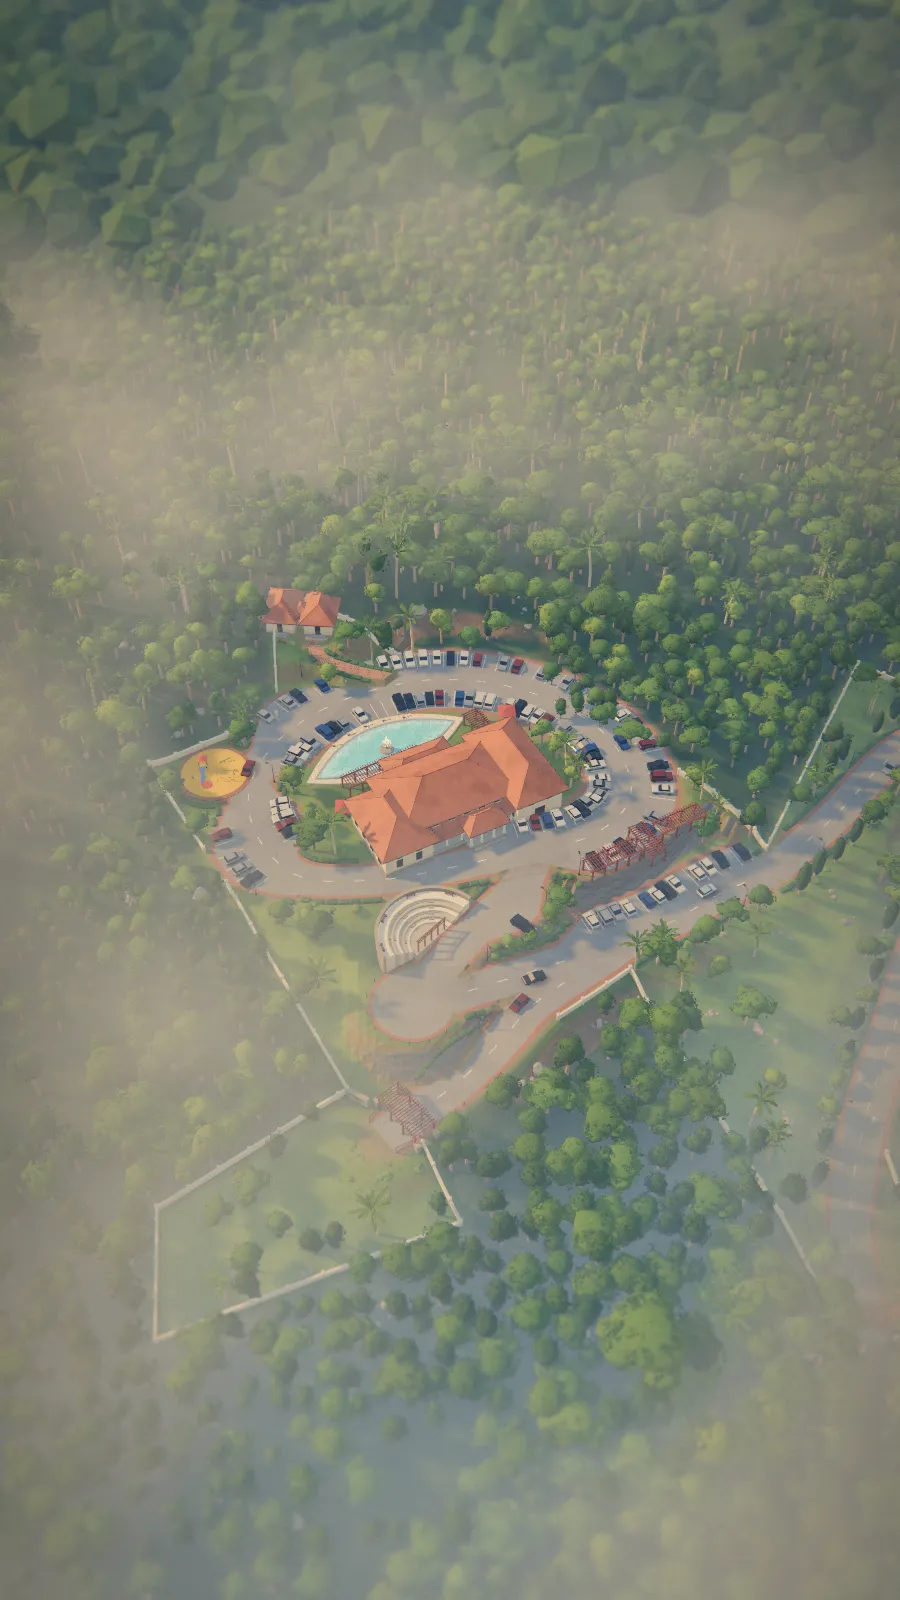
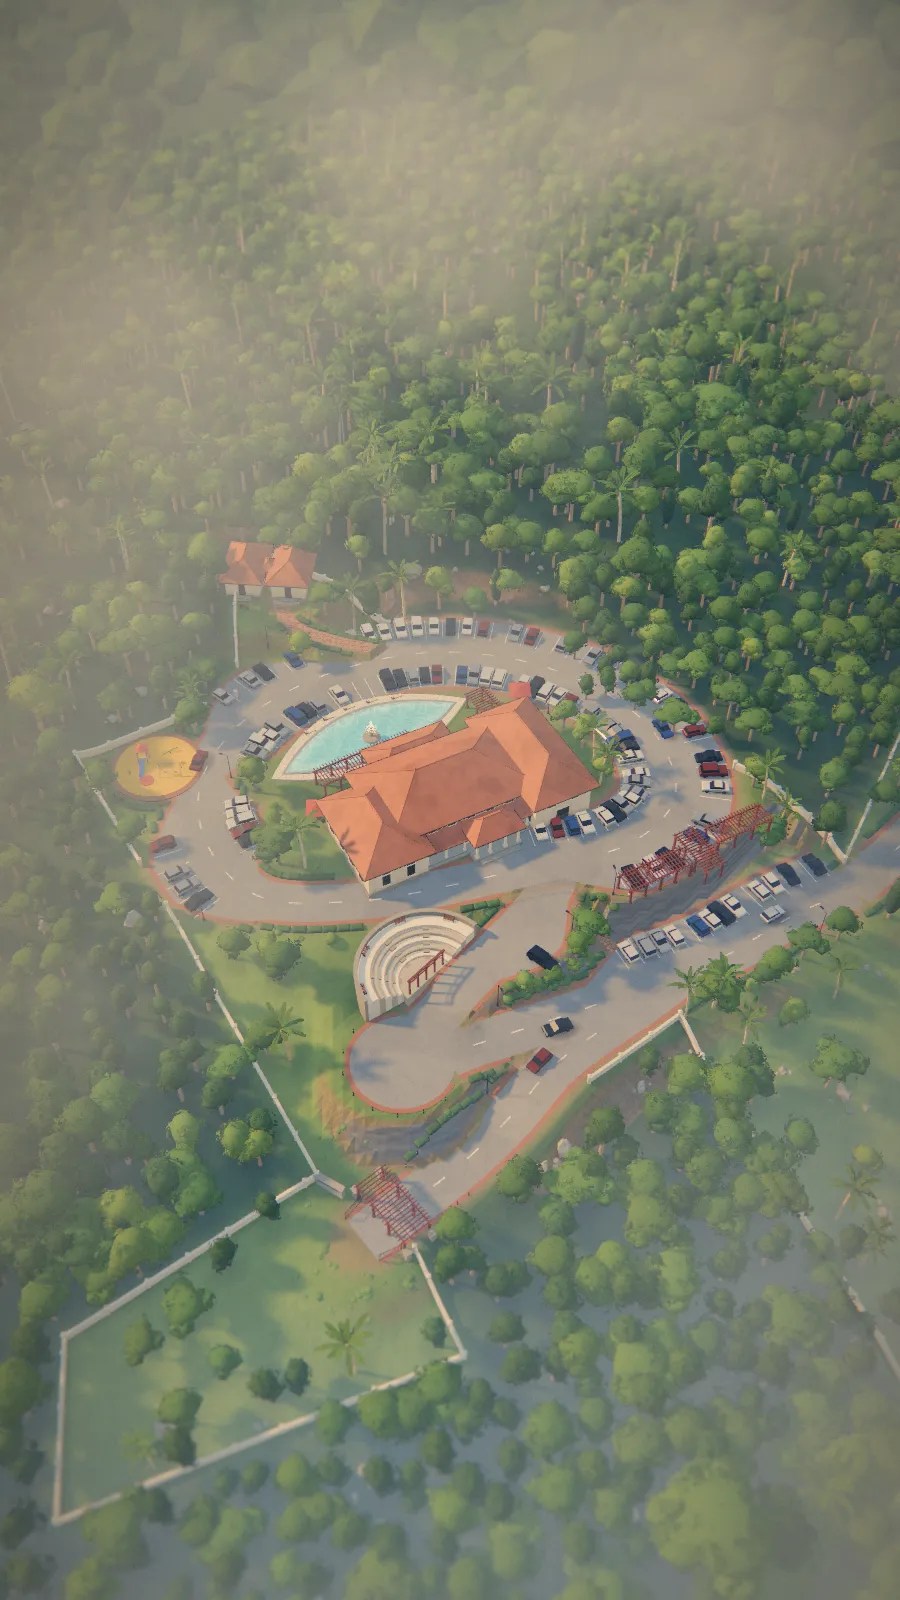
Zoom desktop views 10% closer, fix phone nav and fullscreen error, add test log
- config.js: desktop / big-screen presets (landscape, wider than 760 px) sit
  1/1.1 of their authored distance from their targets (DESKTOP_ZOOM, closer());
  phone and portrait presets unchanged. controls.js shares isNarrowView().
- popups.js: label fade distances scale with the zoom, so each view shows the
  same labels as before.
- hero.css: on phones <= 420 px the menu button was pushed off the right edge;
  logos, "Enquire Now" and the button now fit; below 360 px the CTA is hidden.
- ui.js: a refused fullscreen request no longer throws an uncaught error.
- Posters re-rendered for the new opening view.
- docs/TESTING.md: full index-page test run, results and open items.

diff --git a/src/hero/config.js b/src/hero/config.js
@@ -57,6 +57,16 @@ const requested = new URLSearchParams(location.search).get('look');
 export const LOOK_NAME = LOOKS[requested] ? requested : DEFAULT_LOOK;
 const LOOK = LOOKS[LOOK_NAME];
 
+// Desktop and other big (landscape, wider than 760 px) screens show the model this much larger than the authored
+// camera positions: each desktop preset sits 1 / DESKTOP_ZOOM of its distance from its target. Phones and portrait
+// screens use the presets' `mobile` positions, which are not changed.
+export const DESKTOP_ZOOM = 1.1;
+/** Same test the camera rig uses to pick the `mobile` presets. */
+export const isNarrowView = () => innerWidth <= 760 || innerHeight > innerWidth * 1.1;
+function closer({ target, position, ...rest }) {
+  return { target, position: position.map((v, i) => +(target[i] + (v - target[i]) / DESKTOP_ZOOM).toFixed(2)), ...rest };
+}
+
 export const CONFIG = {
   // Core model + extras (forest, then furniture and rocks). The paths live in prefetch.js, which starts the downloads
   // before this file is loaded.
@@ -74,7 +84,7 @@ export const CONFIG = {
   camera: {
     fov: 35, near: 1, far: 3000,
     target: [-27.3, 8, -21.75], // the Convention Centre, kept at the exact centre of the screen
-    position: [-47, 165, 145],  // from the south, ~45° down — like the reference aerial
+    position: closer({ target: [-27.3, 8, -21.75], position: [-47, 165, 145] }).position, // from the south, ~45° down — the aerial preset
     viewShift: 0,               // fraction of the width to shift the frame right (desktop only); 0 = centred
   },
 
@@ -93,10 +103,11 @@ export const CONFIG = {
   },
 
   // Camera presets: [target], [position]. `mobile` overrides apply to portrait/narrow screens.
+  // The desktop positions below are brought DESKTOP_ZOOM times closer to their targets (see `closer`).
   presets: {
-    aerial: { target: [-27.3, 8, -21.75], position: [-47, 165, 145], mobile: { target: [-27.3, 8, -21.75], position: [-33.9, 166.4, 120.8] } },
-    'main-building': { target: [-28, 8, -22], position: [8, 46, 32], mobile: { target: [-28, 8, -10], position: [-5.6, 61.6, 46] } },
-    recreation: { target: [-52, 7, -34], position: [-62, 38, 22], mobile: { target: [-52, 7, -20], position: [-56.8, 57.4, 40] } },
+    aerial: closer({ target: [-27.3, 8, -21.75], position: [-47, 165, 145], mobile: { target: [-27.3, 8, -21.75], position: [-33.9, 166.4, 120.8] } }),
+    'main-building': closer({ target: [-28, 8, -22], position: [8, 46, 32], mobile: { target: [-28, 8, -10], position: [-5.6, 61.6, 46] } }),
+    recreation: closer({ target: [-52, 7, -34], position: [-62, 38, 22], mobile: { target: [-52, 7, -20], position: [-56.8, 57.4, 40] } }),
   },
   // Opening shot: the camera flies through `path` ([x, y, z] waypoints, low over the forest from the south-east)
   // and lands on the `aerial` preset; `look` is where it looks at the start. Click, scroll, a key or the button skips it.

diff --git a/src/hero/popups.js b/src/hero/popups.js
@@ -1,9 +1,12 @@
 import * as THREE from 'three';
 import { CSS2DRenderer, CSS2DObject } from 'three/addons/renderers/CSS2DRenderer.js';
 import { HOTSPOT_CONTENT } from './content.js';
+import { DESKTOP_ZOOM, isNarrowView } from './config.js';
 
-const FAR = { 1: 520, 2: 230 }; // label visible below this camera distance, by priority
+const FAR = { 1: 520, 2: 230 }; // label visible below this camera distance, by priority (authored camera distances)
 const FADE = 60;                // metres over which labels fade out
+// Desktop presets sit DESKTOP_ZOOM times closer than authored (config.js): scale the distances the same way, so the
+// same labels show at each preset as on the authored framing.
 const isNarrow = () => innerWidth <= 760;
 const esc = (s) => String(s).replace(/[&<>"']/g, (c) => ({ '&': '&amp;', '<': '&lt;', '>': '&gt;', '"': '&quot;', "'": '&#39;' }[c]));
 
@@ -118,8 +121,9 @@ export function createPopups({ scene, camera, stage, hero, hotspots, onResize })
     placed.length = 0;
     for (const l of labels) {
       const d = tmp.copy(l.obj.position).distanceTo(camera.position);
-      const far = FAR[l.priority] ?? FAR[2];
-      const o = THREE.MathUtils.clamp((far - d) / FADE, 0, 1);
+      const k = isNarrowView() ? 1 : 1 / DESKTOP_ZOOM;
+      const far = (FAR[l.priority] ?? FAR[2]) * k;
+      const o = THREE.MathUtils.clamp((far - d) / (FADE * k), 0, 1);
       // screen-space box of the pill; hide if it collides with a more important visible label
       tmp.project(camera);
       const lw = (l.w ||= l.el.offsetWidth || 120), lh = (l.h ||= l.el.offsetHeight || 50);

diff --git a/src/styles/hero.css b/src/styles/hero.css
@@ -262,3 +262,16 @@ button { font: inherit; color: inherit; }
   .panel__arrow { top: auto; bottom: 86px; } .panel__count { bottom: 100px; }
   .hero.view-2d .hero__copy { display: none; }
 }
+
+/* ---------- small phones: logos + "Enquire Now" + menu button must fit in one row ----------
+   At 375 px the menu button was pushed past the right edge (logos 202 px + button 126 px left no room). */
+@media (max-width: 420px) {
+  .nav { gap: 10px; }
+  .nav__brand { gap: 10px; }
+  .nav__logo--group { height: 16px; } .nav__logo--project { height: 32px; } .nav__divider { height: 24px; }
+  .nav .btn--sand { padding: 8px 12px; font-size: 12px; }
+  .nav .nav__cta span { display: none; } /* the arrow */
+  .nav__toggle { width: 38px; height: 38px; flex: none; }
+}
+/* Below 360 px there is no room for the button at all: "Contact Us" stays in the menu. */
+@media (max-width: 359px) { .nav .nav__cta { display: none; } .nav__toggle { margin-left: auto; } }

diff --git a/src/hero/controls.js b/src/hero/controls.js
@@ -1,6 +1,6 @@
 import * as THREE from 'three';
 import { OrbitControls } from 'three/addons/controls/OrbitControls.js';
-import { CONFIG } from './config.js';
+import { CONFIG, isNarrowView as isNarrow } from './config.js';
 
 const deg = THREE.MathUtils.degToRad;
 // Camera ease: speed peaks a third of the way in, then a long soft tail — the move "settles" instead of stopping.
@@ -8,7 +8,6 @@ const settle = (t) => 1 - (1 - t) ** 3 * (1 + 3 * t);
 // Intro ease: already moving when the loader fades (like a film cut), gliding to rest.
 const glide = (t) => 1 - (1 - t) ** 2.2;
 const reducedMotion = matchMedia('(prefers-reduced-motion: reduce)').matches;
-const isNarrow = () => innerWidth <= 760 || innerHeight > innerWidth * 1.1;
 
 /**
  * Camera rig around OrbitControls:

diff --git a/src/hero/ui.js b/src/hero/ui.js
@@ -5,7 +5,8 @@ export function bindUI(rig, { hero }) {
 
   // ----- map controls -----
   const actions = {
-    fullscreen: () => (document.fullscreenElement ? document.exitFullscreen() : hero.requestFullscreen?.()),
+    // A refused request (iframe without allowfullscreen, browser policy) must not surface as an uncaught error.
+    fullscreen: () => (document.fullscreenElement ? document.exitFullscreen() : hero.requestFullscreen?.())?.catch?.((err) => console.info('Fullscreen not available here:', err.message)),
     reset: () => { setActiveShot('aerial'); return rig.goTo('aerial'); },
     'zoom-in': () => rig.zoom(0.7),
     'zoom-out': () => rig.zoom(1.4),

diff --git a/docs/TESTING.md b/docs/TESTING.md
@@ -1,0 +1,138 @@
+# Index page test log
+
+Manual + scripted browser test of `index.html`, run against `python serve.py` (http://localhost:5173) in the
+Claude desktop app's built-in browser (Chromium). Each run adds a section at the top; open items are carried
+forward until they are fixed.
+
+---
+
+## Run 1 — 2026-11-18
+
+**Build:** branch `p3-south-area`, on top of `f3ce45b` plus this run's changes (desktop zoom, label distances,
+fullscreen error, small-phone nav, re-rendered posters).
+**Viewports:** desktop 1440×900, tablet 768×1024 (portrait), phones 414×896, 375×812, 320×640.
+**Tiers:** high (most checks), low and ultra (load + framing + frame rate).
+
+### Changes made in this run
+
+| Change | Files |
+|---|---|
+| Desktop / big screens (landscape, wider than 760 px) show the model 10% larger: every desktop preset sits 1/1.1 of its authored distance from its target. Phones and portrait screens keep their `mobile` presets unchanged. | `src/hero/config.js` (`DESKTOP_ZOOM`, `closer()`), `src/hero/controls.js` |
+| Label fade distances scaled by the same 1.1 on desktop, so the same labels show at each preset as before the zoom. | `src/hero/popups.js` |
+| A refused fullscreen request no longer throws an uncaught promise error. | `src/hero/ui.js` |
+| Small phones: the menu button was pushed off the right edge at 375 px (only 8 px visible). Logos, "Enquire Now" and the button now fit at ≤420 px; below 360 px "Enquire Now" is hidden ("Contact Us" stays in the menu). | `src/styles/hero.css` |
+| Poster images re-rendered (the desktop opening frame changed with the zoom). | `public/assets/images/hero-poster*.webp` |
+
+### Results
+
+Legend: ✅ pass · ❌ fail (open) · 🔧 failed, fixed in this run · ⚠ not testable in this environment
+
+#### Load
+| | Check | Result |
+|---|---|---|
+| ✅ | Loader finishes, poster fades out | `loader is-done` |
+| ✅ | No horizontal page scroll (1440, 768, 414, 375, 320 px) | all widths |
+| ✅ | Canvas present and sized | 1440×900 |
+| ✅ | Images load (gallery image is lazy, loads when opened) | |
+| ✅ | Intro plays and lands on the aerial preset; "Skip intro" shown, skipping lands in ~0.65 s | |
+| ✅ | Console: no errors from the page (after the fullscreen fix) | |
+
+#### Desktop zoom (new)
+| | Check | Result |
+|---|---|---|
+| ✅ | Aerial view 10% closer | 209.0 m (authored 229.9, ×1.100) |
+| ✅ | Main Building preset 10% closer | 68.4 m (authored 75.2, ×1.100) |
+| ✅ | Recreation preset 10% closer | 58.9 m (authored 64.8, ×1.100) |
+| ✅ | Reset button returns to the zoomed aerial view | 209.0 m |
+| ✅ | Phone (375×812) aerial view unchanged | 213.2 m (authored 213.2) |
+| ✅ | Phone Main Building preset unchanged | 80.7 m (authored 80.7) |
+| ✅ | Portrait tablet (768×1024) uses the unchanged mobile framing | 213.2 m |
+| ✅ | Low and ultra tiers land on the same zoomed view | 209.0 m |
+| 🔧 | Labels at the aerial view match the pre-zoom behaviour | Gate labels were brighter after the zoom; fixed by scaling the fade distances (now 0.71 / 0.38 opacity vs 0.65 / 0.38 before) |
+
+#### Navigation
+| | Check | Result |
+|---|---|---|
+| ✅ | Projects dropdown opens on click, closes on outside click and on Escape | |
+| ✅ | Menu button hidden on desktop | |
+| ❌ | "Contact Us" and "Enquire Now" link to `#contact`, but the page has no element with `id="contact"` | **open** — clicking does nothing |
+| ❌ | "Goodhope Luxury Flates" has `href=""` (reloads this page); label reads "Flates" (likely "Flats") | **open** — needs the real URL and spelling |
+| ⚠ | "Investment Management" and "About Us" link to `#` | placeholders, as authored |
+
+#### View tabs and gallery
+| | Check | Result |
+|---|---|---|
+| ✅ | Site Images tab shows the gallery; 3D rendering pauses while it is open | frame counter stopped |
+| ✅ | Gallery has the site render plus 3 captured 3D views | `1 / 4` |
+| ✅ | Next / previous arrows cycle and wrap; keyboard ← → work | |
+| ✅ | Gallery image has alt text | |
+| ✅ | 3D tab returns and rendering resumes | |
+
+#### Map controls and presets
+| | Check | Result |
+|---|---|---|
+| ✅ | Preset thumbnails get captured backgrounds | |
+| ✅ | Each preset flies to its view and highlights its thumbnail; arrows step through presets | |
+| ✅ | Zoom in ×0.7 / zoom out ×1.4, clamped to 35–480 m | 209→146→205 m |
+| ✅ | Compass turns the view to north (click and Enter); needle follows the heading | 0.00° |
+| ✅ | Labels button toggles labels off / on, reports `aria-pressed` | |
+| 🔧 | Fullscreen: when the browser refuses (here: the app's browser pane), the page threw "Uncaught (in promise) TypeError: Permissions check failed" | fixed: no unhandled rejection now |
+| ⚠ | Fullscreen actually entering fullscreen | the in-app browser pane refuses fullscreen; check once in Chrome / Edge |
+
+#### Hotspots and info cards
+| | Check | Result |
+|---|---|---|
+| ✅ | 8 labels, one per hotspot | |
+| ✅ | Clicking a label opens its card (title, text, tags), camera flies to it, label highlighted, preset highlight cleared | |
+| ✅ | Close button and Escape close the card | |
+| ✅ | All 8 hotspots have card copy | |
+| ✅ | Scrolling over the model before clicking it shows "Click the model, then scroll to zoom" | |
+
+#### Phones and tablet
+| | Check | Result |
+|---|---|---|
+| 🔧 | Menu button fully on screen at 375 px | was at 368–397 px of 376; now 322–360 |
+| ✅ | Same at 414 px (361–399 of 415) and 320 px (267–305 of 321, "Enquire Now" hidden) | |
+| ✅ | Menu opens, shows Projects + 3 links, Projects submenu opens, tapping a link closes the menu | |
+| ✅ | Hotspot card opens as a bottom sheet that fits the screen width | 12–364 of 376 px |
+| ✅ | Overlays (tabs, thumbnails, map controls, copy, nav) do not overlap | |
+
+#### Still-image mode (`?3d=off`, also what data-saver visitors get)
+| | Check | Result |
+|---|---|---|
+| ✅ | Poster stays, with "Load 3D model" button | |
+| ✅ | Portrait poster used on a portrait tablet | `hero-poster-mobile.webp` |
+| ✅ | No three.js, app code or models downloaded | |
+| ✅ | Site Images gallery works without 3D | `1 / 1` |
+| ✅ | "Load 3D model" starts the scene | |
+
+#### Keyboard and accessibility
+| | Check | Result |
+|---|---|---|
+| ✅ | ← → move between the 3D / Site Images tabs | |
+| ✅ | Visible labels focusable, hidden ones not | |
+| ✅ | Canvas has `role="application"` and a usage label | |
+| ✅ | Every button has an accessible name; every image has alt text; one `h1` | |
+| ✅ | Document title and meta description present | |
+
+#### Quality tiers (1440×900 emulated in the app's browser pane, `?debug` HUD)
+| Tier | fps | draw calls | triangles |
+|---|---|---|---|
+| low | 141 | 165 | 0.76 M |
+| high | 123 | 345 | 1.58 M |
+| ultra | 105 | 326 | 1.70 M |
+
+These numbers come from the development laptop (RTX 5050) and are only a smoke test, not a phone benchmark.
+
+### Open items (carry forward)
+
+1. **No contact section** — "Contact Us" / "Enquire Now" point at `#contact`, which does not exist on the page.
+2. **Goodhope project link** — empty `href`, and the label spelling "Flates".
+3. **Fullscreen** — confirm it enters fullscreen in a normal Chrome / Edge window (the in-app browser blocks it).
+4. **Real devices** — phone checks above are emulated viewports; try the page on at least one real iPhone and Android phone (touch rotate / pinch zoom, tier choice, frame rate).
+
+### How to re-run
+
+1. `python serve.py`, open http://localhost:5173 (add `?debug` for the fps / draw-call HUD, `?tier=low|high|ultra` to force a tier, `?3d=off` for still-image mode).
+2. Walk the tables above at desktop (≥1280 px wide), portrait tablet and phone (375 px) sizes.
+3. After any change to the camera presets or the look, re-render the posters: open `?tier=ultra&poster` with serve.py running (or `python tools/build_assets.py`).
